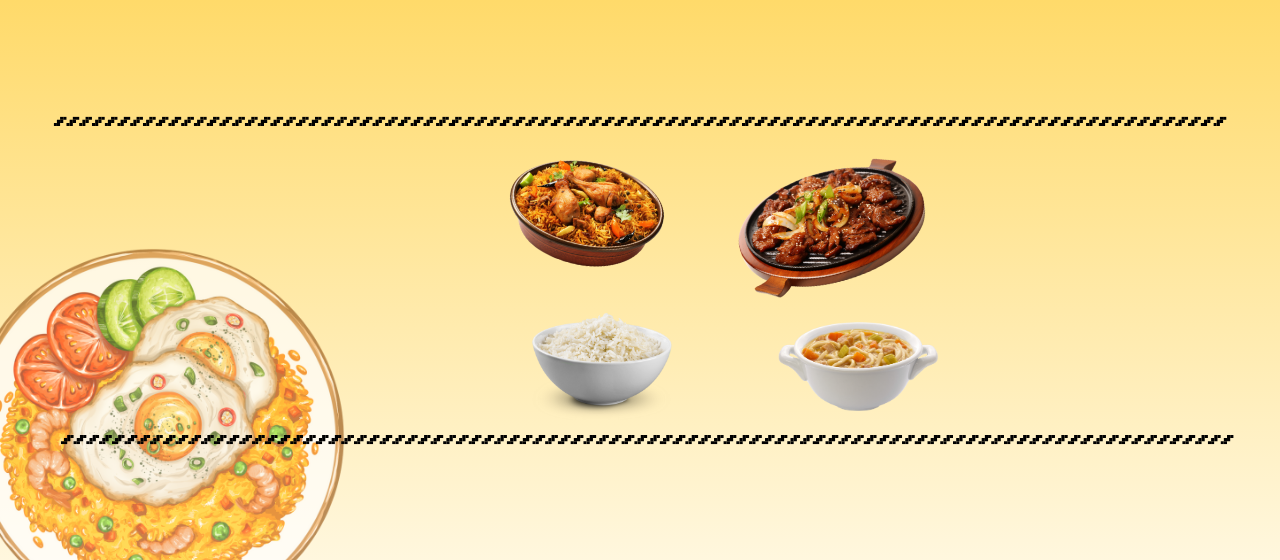
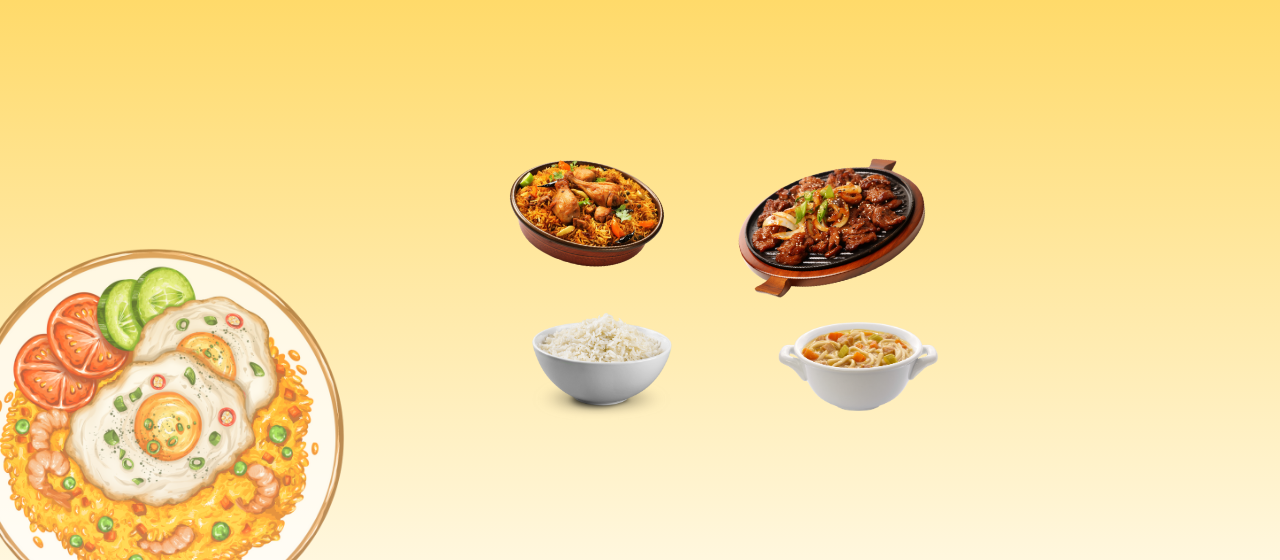
fix: 배너사진과 오픈카톡방 주소 변경

Changed region(s): [[0.0312, 0.7589, 0.9688, 0.7893], [0.0312, 0.2125, 0.9688, 0.2429]]

diff --git a/src/features/challenge/model/constants.ts b/src/features/challenge/model/constants.ts
@@ -19,7 +19,7 @@ export const CHALLENGE_CONSTANTS = {
 
 export const KAKAO_OPEN_CHAT_URLS: Record<ChallengeType, string> = {
   /** 자취생(1인가구) 챌린지 오픈채팅 */
-  SINGLE: "https://open.kakao.com/o/gdXsMo7h",
+  SINGLE: "https://open.kakao.com/o/sXzywB7h",
   /** 주부 챌린지 오픈채팅 */
-  HOUSEWIFE: "https://open.kakao.com/o/gVvIMo7h",
+  HOUSEWIFE: "https://open.kakao.com/o/sXzywB7h",
 };
